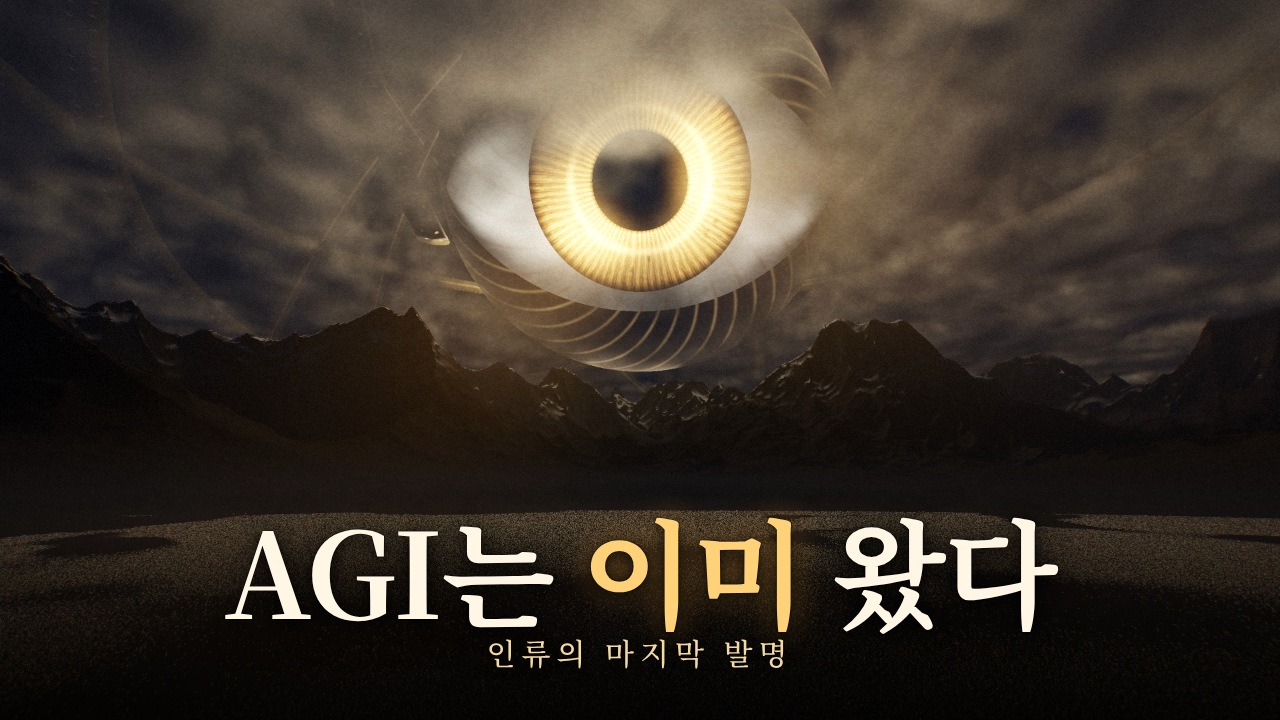
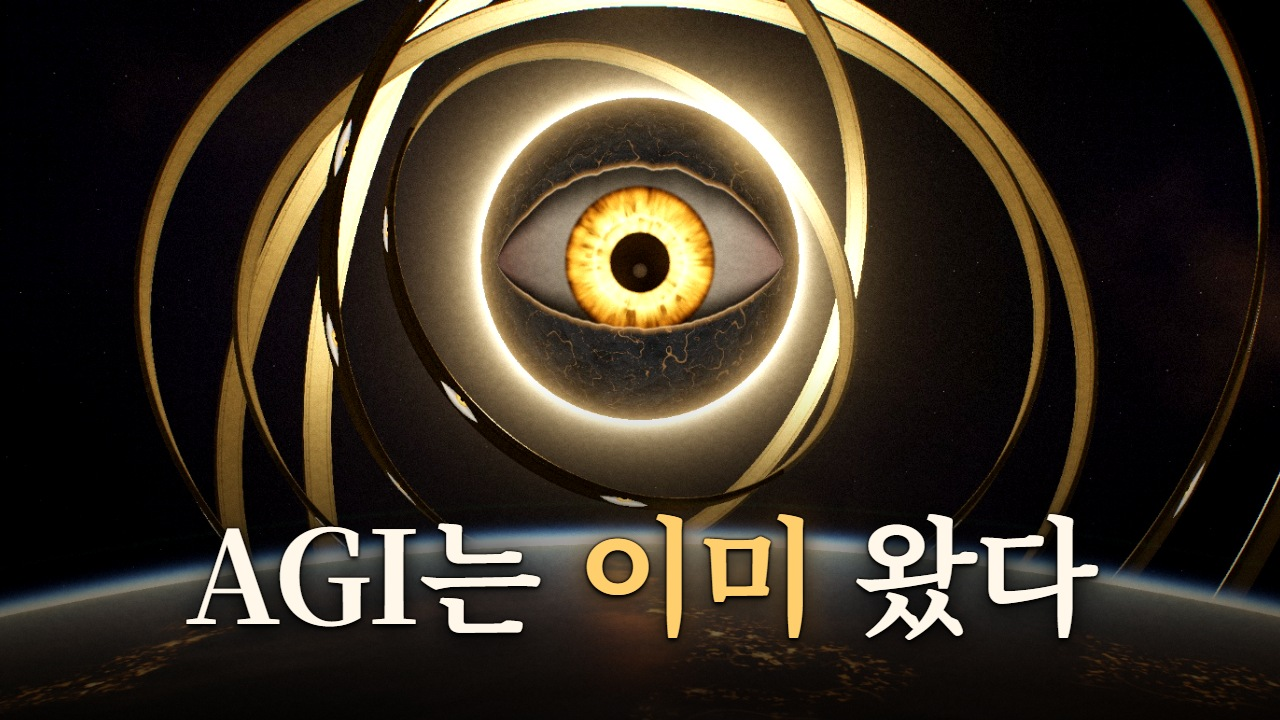
AGI film: thumbnails from the ASI shot; YouTube title set
- Four 1280x720 thumbnails on the frame where the eye looks straight at us over the Earth (ch5 67.6 s),
  only the words differ: B 「초지능까지 1~2년」 (main), D 「인류의 마지막 발명」, A 「AGI는 이미 왔다」,
  C 「이미 우리를 보고 있다」. Bottom-right left clear for the timestamp; checked legible at 320x180.
- thumb.js launches the installed Chrome/Edge like render.js (Playwright's own Chromium is not installed here).
- ch5: no letterbox in --clean frames (thumbnails).
- upload.md: title is now 「AI의 과거와 현재, 그리고 미래」; thumbnail list and the test plan; chapter I reads
  "AI, AGI, ASI" to match the film.

diff --git a/youtube/agi/thumbnail/thumb.html b/youtube/agi/thumbnail/thumb.html
@@ -3,29 +3,41 @@
 <style>
 @font-face { font-family: "SerifB"; src: url(../../claude-history/assets/fonts/NotoSerifKR-Bold.ttf); }
 @font-face { font-family: "SerifM"; src: url(../../claude-history/assets/fonts/NotoSerifKR-Medium.ttf); }
-@font-face { font-family: "Corm"; src: url(../../claude-history/assets/fonts/Cormorant-SemiBold.ttf); }
 html, body { margin: 0; background: #000; }
 #t { position: relative; width: 1280px; height: 720px; overflow: hidden; }
-#bg { position: absolute; inset: 0; background-size: cover; filter: contrast(1.12) saturate(1.08); }
+/* the frame from ch5 (the eye has just turned to us), enlarged so the eye carries the thumbnail */
+#bg { position: absolute; inset: 0; background-repeat: no-repeat; background-size: auto 140%; filter: brightness(1.1) contrast(1.16) saturate(1.18); }
 .shade { position: absolute; inset: 0; }
-.big { position: absolute; font-family: "SerifB"; color: #fff6e6; letter-spacing: -2px; line-height: 1.02;
-  text-shadow: 0 0 2px #000, 0 4px 18px rgba(0,0,0,.95), 0 0 46px rgba(0,0,0,.85); }
-.big em { font-style: normal; color: #ffd27a; text-shadow: 0 0 2px #000, 0 4px 18px rgba(0,0,0,.95), 0 0 30px rgba(255,170,60,.55); }
-.small { position: absolute; font-family: "SerifM"; color: #f3d9a4; letter-spacing: 6px; text-shadow: 0 2px 10px #000; }
+/* thick dark edge + soft glow: readable at phone size on any part of the picture */
+.big { position: absolute; font-family: "SerifB"; color: #fff7ea; letter-spacing: -3px; line-height: 1.04; white-space: nowrap;
+  text-shadow: 0 0 3px #000, 0 0 3px #000, 0 3px 4px #000, 0 6px 22px rgba(0,0,0,.95), 0 0 50px rgba(0,0,0,.8); }
+.big em { font-style: normal; color: #ffcf6e; text-shadow: 0 0 3px #000, 0 0 3px #000, 0 3px 4px #000, 0 6px 22px rgba(0,0,0,.95), 0 0 34px rgba(255,160,40,.55); }
+.small { position: absolute; font-family: "SerifM"; color: #f0d6a0; letter-spacing: 8px; white-space: nowrap; text-shadow: 0 0 3px #000, 0 2px 12px #000; }
 </style></head>
 <body><div id="t"><div id="bg"></div><div class="shade" id="shade"></div><div id="text"></div></div>
 <script>
+const IMG = "../out/thumb/e-67.60.jpg";
+// eye centre in the source frame (1920x1080) is (960, 356); at 140% height the frame is drawn at 0.9333 scale
 const V = {
-  A: { img: "../out/thumb/f-36.80.jpg", pos: "50% 18%", shade: "linear-gradient(180deg, rgba(0,0,0,0) 45%, rgba(0,0,0,.82) 100%)",
-       text: `<div class="big" style="left:0;right:0;bottom:92px;text-align:center;font-size:118px">AGI는 <em>이미</em> 왔다</div>
-              <div class="small" style="left:0;right:0;bottom:46px;text-align:center;font-size:30px">인류의 마지막 발명</div>` },
-  B: { img: "../out/thumb/f-24.20.jpg", pos: "58% 40%", shade: "linear-gradient(90deg, rgba(0,0,0,.86) 0%, rgba(0,0,0,.55) 34%, rgba(0,0,0,0) 58%)",
-       text: `<div class="big" style="left:56px;top:150px;font-size:112px">초지능까지<br><em>1~2년</em></div>
-              <div class="small" style="left:62px;top:430px;font-size:30px">인류의 마지막 발명</div>` },
+  // the claim, under the eye
+  A: { pos: "-256px -70px", shade: "linear-gradient(180deg, rgba(0,0,0,0) 52%, rgba(0,0,0,.78) 100%)",
+       text: `<div class="big" style="left:0;right:0;bottom:84px;text-align:center;font-size:128px">AGI는 <em>이미</em> 왔다</div>` },
+  // the countdown, beside the eye
+  B: { pos: "-20px -40px", shade: "linear-gradient(90deg, rgba(0,0,0,.84) 0%, rgba(0,0,0,.6) 30%, rgba(0,0,0,0) 55%)",
+       text: `<div class="big" style="left:58px;top:150px;font-size:104px">초지능까지</div>
+              <div class="big" style="left:52px;top:268px;font-size:190px"><em>1~2년</em></div>` },
+  // the stare
+  C: { pos: "-20px -40px", shade: "linear-gradient(90deg, rgba(0,0,0,.84) 0%, rgba(0,0,0,.6) 30%, rgba(0,0,0,0) 55%)",
+       text: `<div class="big" style="left:58px;top:168px;font-size:112px">이미 우리를</div>
+              <div class="big" style="left:56px;top:300px;font-size:136px"><em>보고 있다</em></div>` },
+  // the film's own name, now that the YouTube title is "AI의 과거와 현재, 그리고 미래"
+  D: { pos: "-20px -40px", shade: "linear-gradient(90deg, rgba(0,0,0,.84) 0%, rgba(0,0,0,.6) 30%, rgba(0,0,0,0) 55%)",
+       text: `<div class="big" style="left:58px;top:168px;font-size:112px">인류의</div>
+              <div class="big" style="left:54px;top:300px;font-size:136px"><em>마지막 발명</em></div>` },
 };
-window.show = async k => { const v = V[k];
-  document.getElementById("bg").style.backgroundImage = `url(${v.img})`; document.getElementById("bg").style.backgroundPosition = v.pos;
+window.show = async k => { const v = V[k], bg = document.getElementById("bg");
+  bg.style.backgroundImage = `url(${IMG})`; bg.style.backgroundPosition = v.pos;
   document.getElementById("shade").style.background = v.shade; document.getElementById("text").innerHTML = v.text;
   await document.fonts.load('100px "SerifB"', "가"); await document.fonts.load('30px "SerifM"', "가");
-  await new Promise(r => { const i = new Image(); i.onload = r; i.src = v.img; }); };
+  await new Promise(r => { const i = new Image(); i.onload = r; i.src = IMG; }); };
 </script></body></html>

diff --git a/youtube/agi/thumbnail/thumb.js b/youtube/agi/thumbnail/thumb.js
@@ -1,9 +1,12 @@
-// Renders thumbnail variants to JPEG: node thumb.js A B
-// Background frames first: node ../film/render.js ../out/thumb/f.jpg --only cold --quality final --clean --stills 24.2,36.8
+// Renders thumbnail variants to JPEG: node thumb.js A B C
+// Background frame first: node ../film/render.js ../out/thumb/e.jpg --only ch5 --quality final --clean --stills 67.6 --gpu
 const { chromium } = require("playwright");
 const path = require("path");
 (async () => {
-  const browser = await chromium.launch({ args: ["--allow-file-access-from-files"] });
+  let browser;                                   // installed Chrome or Edge first, as render.js does; Playwright's own Chromium last
+  for (const channel of ["chrome", "msedge", undefined]) {
+    try { browser = await chromium.launch({ channel, args: ["--allow-file-access-from-files"] }); break; } catch (e) { if (!channel) throw e; }
+  }
   const page = await browser.newPage({ viewport: { width: 1280, height: 720 } });
   await page.goto("file://" + path.resolve(__dirname, "thumb.html"));
   for (const k of process.argv.slice(2)) { await page.evaluate(k => window.show(k), k); await page.locator("#t").screenshot({ path: path.resolve(__dirname, `thumb-${k}.jpg`), type: "jpeg", quality: 93 }); console.log("thumb", k); }

diff --git a/youtube/agi/film/ch5.js b/youtube/agi/film/ch5.js
@@ -719,7 +719,7 @@ void main(){
         uniforms: { uTime: 405 + kt, ...camUniforms(cam), uA: [eyeOpen, ringOpen, core, 0], uB: [ringLight, gaze, 0, pupil], uC: [...E, OS],
           uD: [1.0 + 0.7 * eyeOpen, 1.0, fin ? 1 : 0, kt], uRing: heavensRings(RING_PHASE5 + (kt - 50) * RING_RATE), uSpin: { float: spins(kt) },
           uSock: sock, uLook: REST_LOOK, uEyeUp: eyeUp, uAnchor: ANCHOR, uVel: wake } },
-        { bloom: 0.45 + 0.4 * flash + 0.15 * slit, thresh: 1.4, exposure: 1.0 + 0.6 * flash, rays: [rx, ry, 0.06 + 0.04 * eyeOpen + 0.25 * slit], letterbox: LB, vignette: 0.6,
+        { bloom: 0.45 + 0.4 * flash + 0.15 * slit, thresh: 1.4, exposure: 1.0 + 0.6 * flash, rays: [rx, ry, 0.06 + 0.04 * eyeOpen + 0.25 * slit], letterbox: window.CLEAN ? 0 : LB, vignette: 0.6,
           lift: 0.75 * Math.pow(flash, 2.2), fade: 1 - smooth(69.2, 70, k), t: T });
       o.save(); o.globalAlpha = 1 / (i + 1); blit(); o.restore();
     }

diff --git a/youtube/agi/upload/upload.md b/youtube/agi/upload/upload.md
@@ -1,14 +1,17 @@
-# 업로드 패키지: 「인류의 마지막 발명」
+# 업로드 패키지: 「인류의 마지막 발명」 (유튜브 제목: AI의 과거와 현재, 그리고 미래)
 
-## 제목 후보
-1. **인류의 마지막 발명 | AGI는 이미 도착했다** (추천)
-2. AGI는 이미 왔다. 초지능까지 1~2년 | 인류의 마지막 발명
-3. 신의 한 수에서 초지능까지: AI의 역사, 그리고 AGI와 ASI
+## 제목
+**AI의 과거와 현재, 그리고 미래** (확정)
 
 ## 썸네일
-- `thumbnail/thumb-A.jpg`: 산 위의 거대한 눈, 「AGI는 이미 왔다」 (추천, 첫 업로드용)
-- `thumbnail/thumb-B.jpg`: 고리를 두른 눈, 「초지능까지 1~2년」 (A/B 테스트용)
-- 유튜브 스튜디오의 "썸네일 테스트"에 두 장을 같이 올리면 자동으로 비교해 줘요.
+모두 영상 7:52 프레임(5장 67.6초, 지구 위에서 눈이 우리를 정면으로 보는 순간)에 글자만 다르게 얹었어요. 1280×720 JPG, 각 250KB 안팎이에요.
+제목이 설명형이라 썸네일이 감정의 훅을 맡아요. 오른쪽 아래(재생 시간 표시 자리)는 비워 뒀어요.
+- `thumbnail/thumb-B.jpg`: 「초지능까지 **1~2년**」 (추천, 메인). 숫자와 시한이 제목의 '미래'를 구체적으로 만들어요.
+- `thumbnail/thumb-D.jpg`: 「인류의 **마지막 발명**」. 제목에서 빠진 영상의 이름을 썸네일이 맡아요.
+- `thumbnail/thumb-A.jpg`: 「AGI는 **이미** 왔다」. 가장 강한 주장이에요.
+- `thumbnail/thumb-C.jpg`: 「이미 우리를 **보고 있다**」. 눈 맞춤을 그대로 문장으로 만든 버전이에요.
+- 유튜브 스튜디오의 "테스트 및 비교"에 B·D·A 세 장을 올리면 시청 시간 기준으로 자동 비교해 줘요.
+- 다시 만들 때: `node film/render.js out/thumb/e.jpg --only ch5 --quality final --clean --stills 67.6 --gpu` 다음 `node thumbnail/thumb.js A B C D`
 
 ## 설명란
 ```
@@ -19,7 +22,7 @@
 그리고 AGI와 ASI가 무엇인지, 왜 지금인지.
 
 0:00 콜드 오픈
-0:47 I. 세 개의 단어 — 좁은 AI, AGI, ASI
+0:47 I. 세 개의 단어 — AI, AGI, ASI
 1:53 II. 불씨 — 튜링부터 딥러닝까지
 3:23 III. 신의 한 수 — 알파고, 트랜스포머, 그리고 대화하는 기계
 5:03 IV. 문턱 — 2026년, 최전선의 모델들
